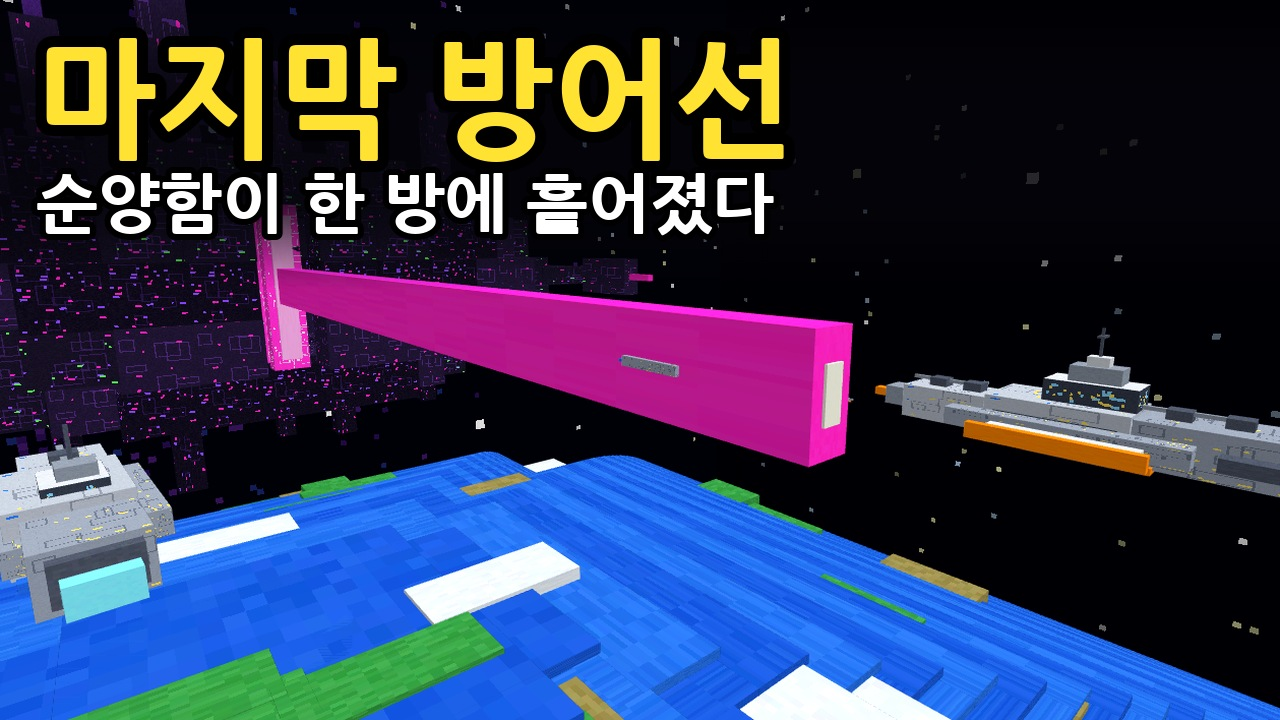
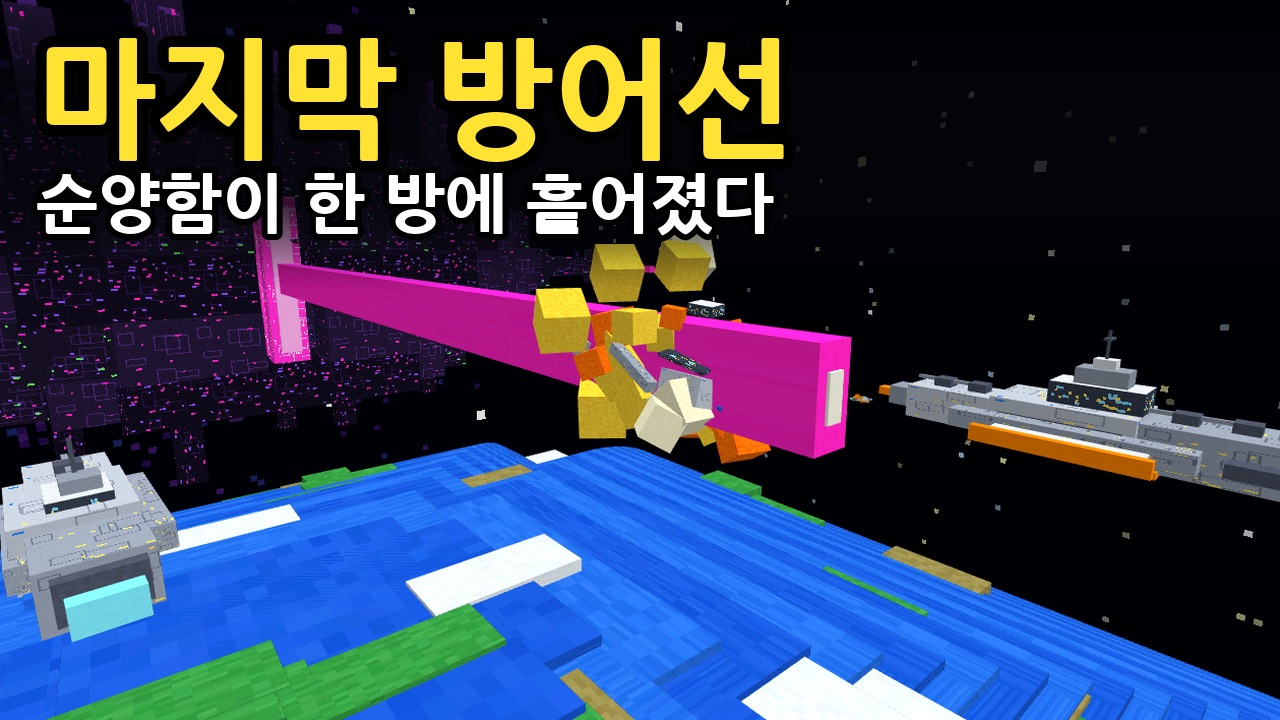
「마지막 방어선」 완성: 쇼츠 썸네일, 촬영 속도 규칙(블록애니.md)
Claude-Session: https://claude.ai/code/session_01HCMiuwYCWXpUJp9ehAAJht

diff --git a/연재/지구방위선/기획.md b/연재/지구방위선/기획.md
@@ -8,3 +8,8 @@
   `블록애니/우주_장면.py`(세트 O 궤도·I 모함 안, 함선 움직임 `Craft`, 레이저 `bolt`/`volley`, 샷 42개)
 - 공간감: 초대형 모함(1,700×650×900) 앞에 전투기(16)·기지(260)를 한 화면에, 모함 위에서 내려다본 점 같은 함대, 지구의 둥근 지평선과 달, 사방의 별 벽
 - 검수에서 고친 것(2026-11-10): 지구가 계단 섬처럼 보임 → 아주 큰 공의 윗부분(planet_cap), 불덩이가 큰 상자로 보임 → 작은 파편(burst), 큰 함선이 기울어짐 → bank=False, 핵이 원점 둘레로 돎 → 묶음 중심을 핵으로
+- 만드는 법: `블록애니/우주_장면.py all`(세트 O1~O4·I + 샷 42개 + `시간표.json`) → `겹침면_검사.py` → `--test` 검수 → 전체 촬영(3개 동시, 5,734장) → `우주_소리.py` → `탈출_조립.py`.
+  쇼츠: `우주_쇼츠.py` → `VERT=1` 세로 촬영 → `우주_소리.py --전투만` → `탈출_조립.py --크기 1080x1920`
+- 촬영 속도에서 배운 것(2026-11-11): 한 장 찍는 시간은 **화면에 보이는 상자 수**에 비례(상자 하나에 약 3ms). 아주 큰 판을 겹겹이 쌓으면(지구) 특히 느림 →
+  위층에 가려진 안쪽은 도려내고(고리), 큰 덩어리의 속은 비움(모함). 고친 뒤 3배쯤 빨라짐. 느린 장면은 1초 12장(`SLOW` 목록)
+- 썸네일 `썸네일/긴영상_썸네일1·2.jpg`, `썸네일/쇼츠_썸네일1·2.jpg`. 업로드 문구 `마지막방어선_업로드문구.txt`

diff --git a/블록애니.md b/블록애니.md
@@ -44,6 +44,12 @@
 - 저장 전에 자동으로 고침: `겹침면_검사.fix(M.els, top)` (화성_장면.py 의 save 가 부름 — 새 장면 프로그램도 저장 전에 꼭 부름)
 - 촬영 전 검사: `python 블록애니/겹침면_검사.py <장면 폴더>` → '겹침 없음'이어야 촬영 (같은 색끼리·밑면끼리는 안 보여서 넘김)
 
+## 촬영 속도 (2026-11-11 「마지막 방어선」에서 잼)
+- 한 장 찍는 시간 ≈ **화면에 보이는 상자 수 × 약 3ms** (그래픽카드 없이). 세트 하나에 보이는 상자는 1,000개 안쪽으로
+- 아주 큰 판을 겹겹이 쌓은 것(행성)·속까지 꽉 찬 덩어리(큰 함선)는 겉에서 안 보이는 부분을 만들지 않음 (`우주_부품.py` 의 planet_cap 고리·mothership 속 비움)
+- 터지지 않는 물체의 조각 묶음은 저장 전에 풀기(`우주_장면.py` save 의 flat), 긴 영상은 시간대별로 세트 파일을 나눠 그 시간대의 움직임만 넣기(WINS)
+- 촬영 전에 한 장 찍는 시간을 먼저 재고(시험 촬영), 2초를 넘으면 위 방법으로 줄인 뒤 전체 촬영
+
 ## 인물 (확정 전 샘플)
 - 블록꼬마: 빨간 모자, 노란 비옷, 초록 바지, 검은 머리
 - 블록소녀: 보라 후드, 하늘색 바지, 흰 신발, 갈색 꽁지머리
